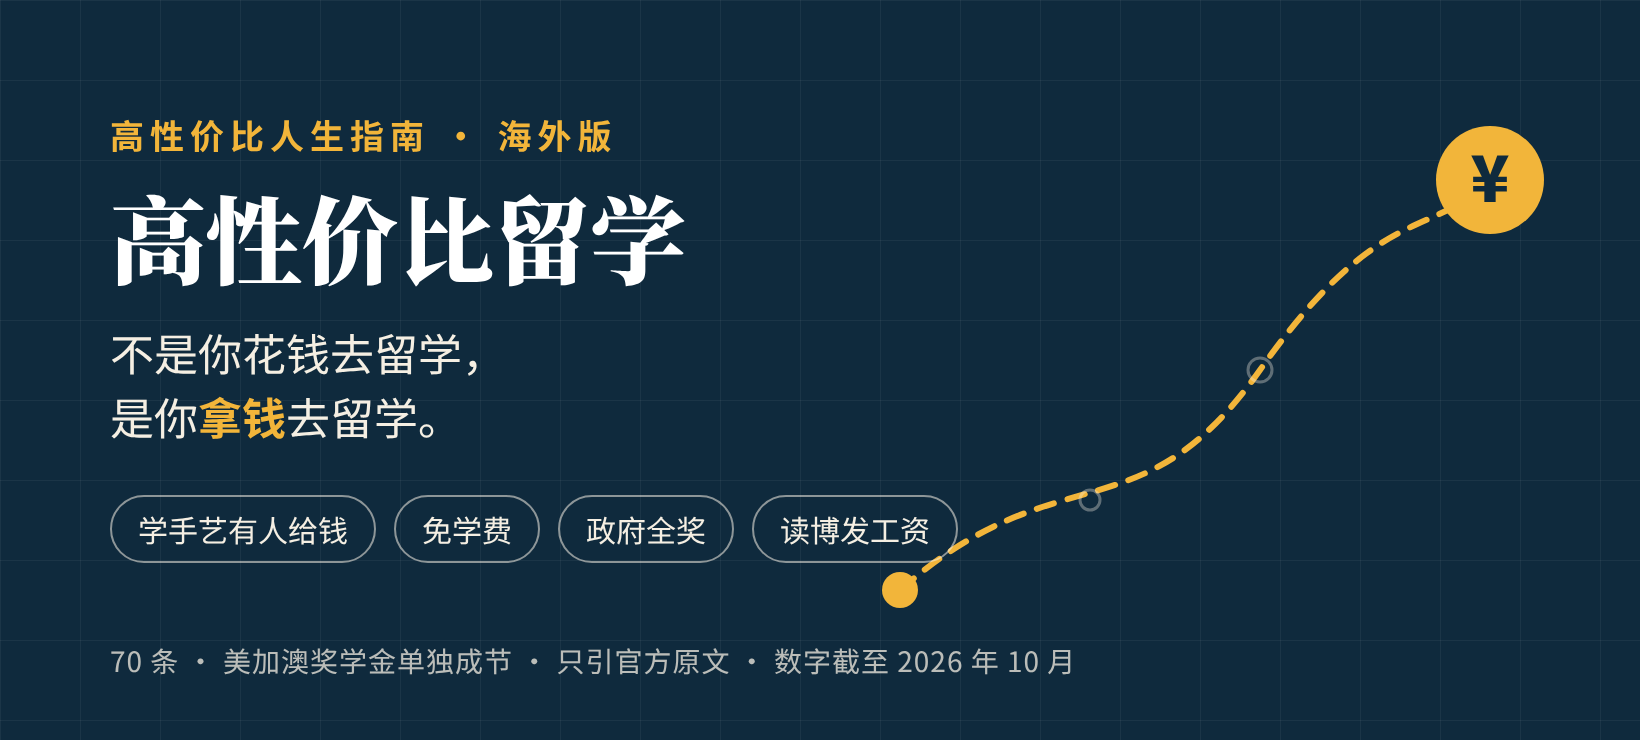
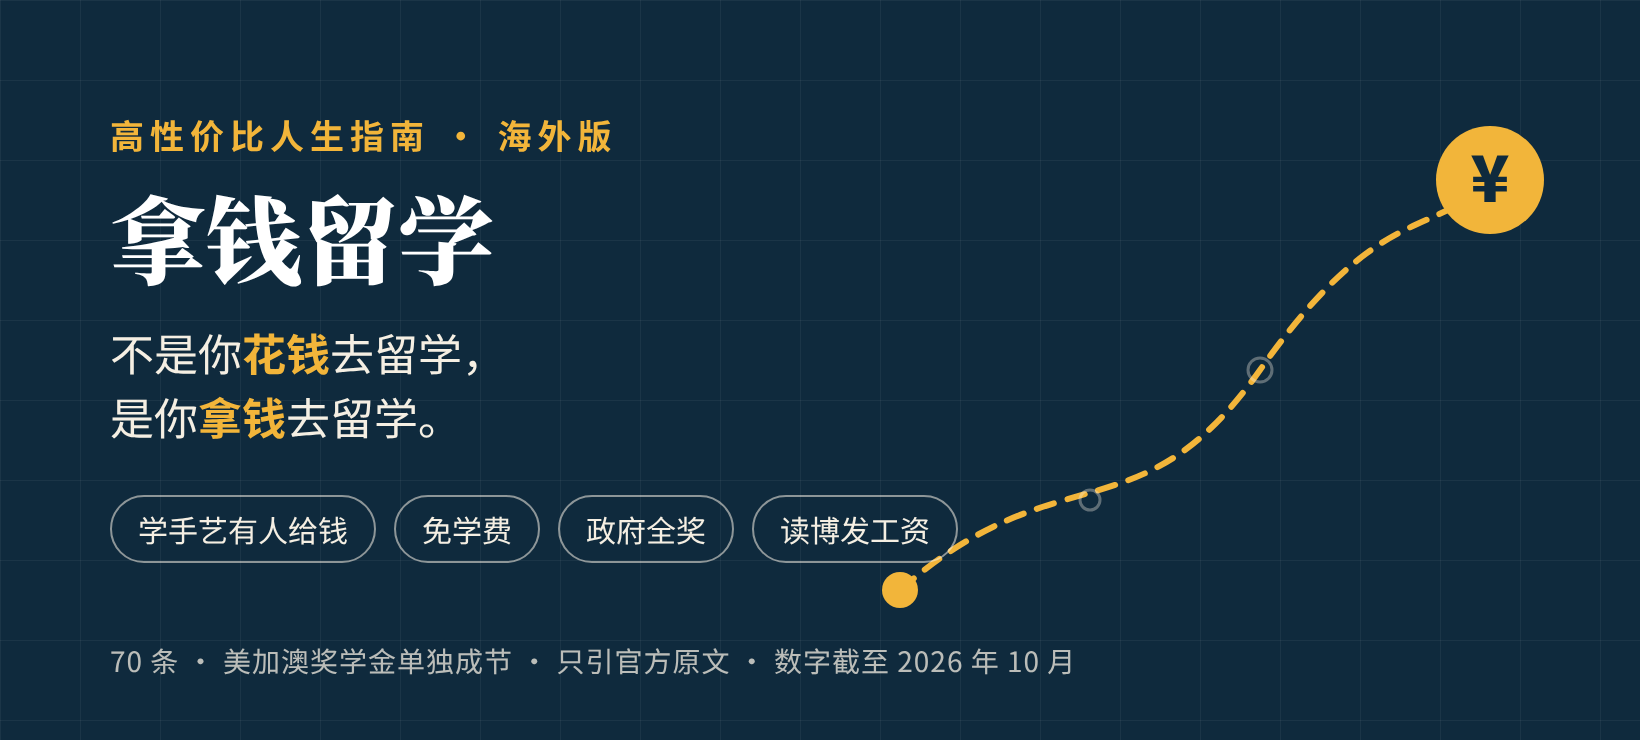
标题改回拿钱留学

Changed region(s): [[0.0622, 0.2486, 0.4354, 0.4041], [0.1244, 0.4351, 0.2177, 0.5284]]

diff --git a/index.html b/index.html
@@ -3,23 +3,23 @@
 <head>
 <meta charset="utf-8">
 <meta name="viewport" content="width=device-width, initial-scale=1">
-<title>高性价比留学 · 高性价比人生指南海外版 · 留学奖学金、免学费、读博发工资</title>
-<meta name="description" content="高性价比人生指南·海外版：高性价比留学。不是你花钱去留学，是你拿钱去留学。70 条出国留学省钱路线：德国日本学手艺有人发钱、免学费和低学费国家、政府全额奖学金、带薪读博，以及美国、加拿大、澳大利亚的留学奖学金。每条写明成本、收益、证据等级，只引各国政府和学校官网。">
-<meta name="keywords" content="高性价比人生指南,高性价比人生指南海外版,HowToLiveBetter,高性价比留学,拿钱留学,留学,出国留学,留学奖学金,全额奖学金,免学费,政府奖学金,国家公派,CSC,读博,带薪博士,德国Ausbildung,日本介护,美国奖学金,加拿大奖学金,澳大利亚奖学金,CSS Profile">
+<title>拿钱留学 · 高性价比人生指南海外版 · 留学奖学金、免学费、读博发工资</title>
+<meta name="description" content="高性价比人生指南·海外版：拿钱留学。不是你花钱去留学，是你拿钱去留学。70 条出国留学省钱路线：德国日本学手艺有人发钱、免学费和低学费国家、政府全额奖学金、带薪读博，以及美国、加拿大、澳大利亚的留学奖学金。每条写明成本、收益、证据等级，只引各国政府和学校官网。">
+<meta name="keywords" content="高性价比人生指南,高性价比人生指南海外版,HowToLiveBetter,拿钱留学,留学,出国留学,留学奖学金,全额奖学金,免学费,政府奖学金,国家公派,CSC,读博,带薪博士,德国Ausbildung,日本介护,美国奖学金,加拿大奖学金,澳大利亚奖学金,CSS Profile">
 <meta name="robots" content="index,follow,max-image-preview:large,max-snippet:-1">
 <link rel="canonical" href="https://beckyglobal.github.io/PaidToStudyAbroad/">
 <meta property="og:type" content="website">
-<meta property="og:site_name" content="高性价比人生指南·海外版：高性价比留学">
+<meta property="og:site_name" content="高性价比人生指南·海外版：拿钱留学">
 <meta property="og:locale" content="zh_CN">
 <meta property="og:url" content="https://beckyglobal.github.io/PaidToStudyAbroad/">
-<meta property="og:title" content="高性价比留学 · 高性价比人生指南海外版">
-<meta property="og:description" content="高性价比人生指南·海外版：高性价比留学。不是你花钱去留学，是你拿钱去留学。70 条出国留学省钱路线：德国日本学手艺有人发钱、免学费和低学费国家、政府全额奖学金、带薪读博，以及美国、加拿大、澳大利亚的留学奖学金。每条写明成本、收益、证据等级，只引各国政府和学校官网。">
+<meta property="og:title" content="拿钱留学 · 高性价比人生指南海外版">
+<meta property="og:description" content="高性价比人生指南·海外版：拿钱留学。不是你花钱去留学，是你拿钱去留学。70 条出国留学省钱路线：德国日本学手艺有人发钱、免学费和低学费国家、政府全额奖学金、带薪读博，以及美国、加拿大、澳大利亚的留学奖学金。每条写明成本、收益、证据等级，只引各国政府和学校官网。">
 <meta property="og:image" content="https://beckyglobal.github.io/PaidToStudyAbroad/og.png">
 <meta property="og:image:width" content="1640">
 <meta property="og:image:height" content="740">
 <meta name="twitter:card" content="summary_large_image">
-<meta name="twitter:title" content="高性价比留学 · 高性价比人生指南海外版">
-<meta name="twitter:description" content="高性价比人生指南·海外版：高性价比留学。不是你花钱去留学，是你拿钱去留学。70 条出国留学省钱路线：德国日本学手艺有人发钱、免学费和低学费国家、政府全额奖学金、带薪读博，以及美国、加拿大、澳大利亚的留学奖学金。每条写明成本、收益、证据等级，只引各国政府和学校官网。">
+<meta name="twitter:title" content="拿钱留学 · 高性价比人生指南海外版">
+<meta name="twitter:description" content="高性价比人生指南·海外版：拿钱留学。不是你花钱去留学，是你拿钱去留学。70 条出国留学省钱路线：德国日本学手艺有人发钱、免学费和低学费国家、政府全额奖学金、带薪读博，以及美国、加拿大、澳大利亚的留学奖学金。每条写明成本、收益、证据等级，只引各国政府和学校官网。">
 <meta name="twitter:image" content="https://beckyglobal.github.io/PaidToStudyAbroad/og.png">
 <style>
   :root{
@@ -94,8 +94,8 @@
   <button class="theme" id="theme" type="button" aria-label="切换深色或浅色">深/浅</button>
   <div class="wrap">
     <div class="kicker">高性价比人生指南 · 海外版</div>
-    <h1>高性价比留学</h1>
-    <p class="tag">不是你花钱去留学，是你<b>拿钱</b>去留学。</p>
+    <h1>拿钱留学</h1>
+    <p class="tag">不是你<b>花钱</b>去留学，是你<b>拿钱</b>去留学。</p>
     <div class="meta"><span id="total">…</span> · 只引各国政府和官方机构原文 · 数字截至 2026 年 10 月 · <a href="https://github.com/BeckyGlobal/PaidToStudyAbroad">GitHub 仓库</a></div>
     <div class="follow">关注作者：微信视频号 <b>Becky在地球村</b></div>
   </div>
@@ -121,7 +121,7 @@
     来源只引各国政府、政府机构和使领馆、法律原文、公立大学官网，以及政府委托或出资运营的项目官网。奖学金和签证政策每年都改，申请前请照每条的来源链接再查一遍。<br>
     想看更多出国路径和海外生活，关注微信视频号「Becky在地球村」。<br>
     本指南不是法律、移民或财务意见。正文按 CC BY-NC-ND 4.0 发布，不能商用，不能改编。<br>
-    <b>转载请注明出处：《高性价比留学》，微信视频号 Becky在地球村</b><br>
+    <b>转载请注明出处：《拿钱留学》，微信视频号 Becky在地球村</b><br>
     灵感来自《高性价比人生指南》（eternity4719），本站是读者做的非官方衍生作品。
   </footer>
 </main>

diff --git a/README.md b/README.md
@@ -1,8 +1,8 @@
 <div align="center">
 
-<img src="og.png" alt="高性价比人生指南 · 海外版：高性价比留学 —— 不是你花钱去留学，是你拿钱去留学" width="820">
+<img src="og.png" alt="高性价比人生指南 · 海外版：拿钱留学 —— 不是你花钱去留学，是你拿钱去留学" width="820">
 
-# 高性价比人生指南 · 海外版：高性价比留学
+# 高性价比人生指南 · 海外版：拿钱留学
 
 <sub>An unofficial overseas companion to <a href="https://github.com/eternity4719/HowToLiveBetter">HowToLiveBetter (高性价比人生指南)</a>: scholarships, tuition-free study, fully funded government awards and paid PhDs for readers from mainland China. Official sources only.</sub>
 
@@ -239,4 +239,4 @@
 
 正文按 [CC BY-NC-ND 4.0](LICENSE)（署名-非商业性使用-禁止演绎）发布：可以转发、分享，但要注明出处并附上本仓库链接；不能用于商业用途，不能改编后再发布。
 
-转载请注明出处：《高性价比留学》，微信视频号 Becky在地球村。
+转载请注明出处：《拿钱留学》，微信视频号 Becky在地球村。
